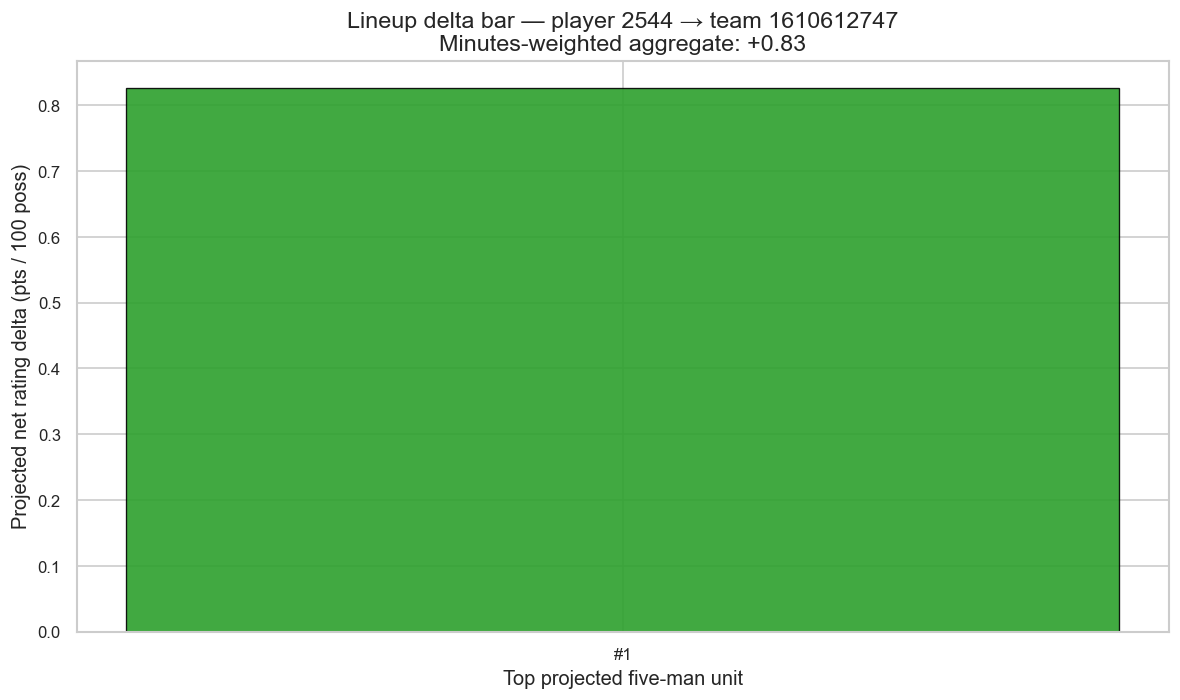
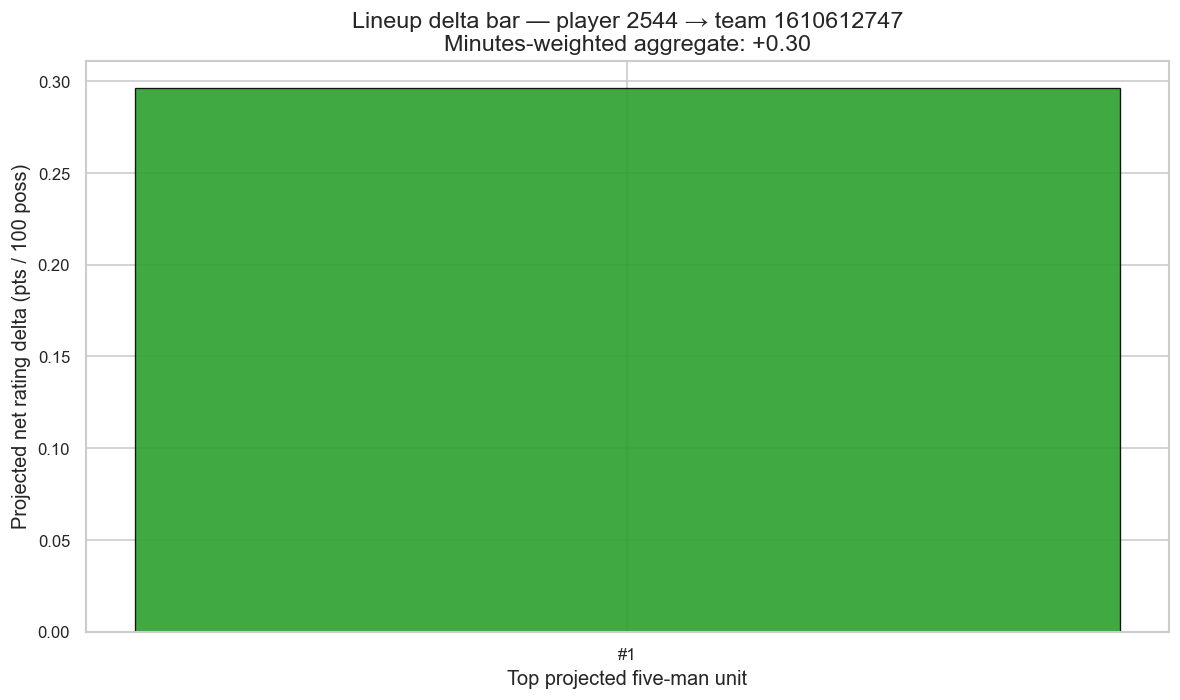
Refresh Option C validation artifacts for 2024-25.
Pin PYTHONPATH in the validation runner, use trained RAPM in visual tests, and record real PBP impact ingest (30 games) with non-zero lineup deltas.

diff --git a/scripts/run_option_c_validation.py b/scripts/run_option_c_validation.py
@@ -4,6 +4,7 @@
 from __future__ import annotations
 
 import json
+import os
 import subprocess
 import sys
 from datetime import datetime, timezone
@@ -21,6 +22,17 @@ if str(REPO_ROOT) not in sys.path:
     sys.path.insert(0, str(REPO_ROOT))
 if str(REPO_ROOT / "src") not in sys.path:
     sys.path.insert(0, str(REPO_ROOT / "src"))
+
+_SRC = str(REPO_ROOT / "src")
+
+
+def _subprocess_env() -> dict[str, str]:
+    """Pin imports to this repo so a different editable install cannot hijack CLI."""
+    env = os.environ.copy()
+    prefix = _SRC
+    existing = env.get("PYTHONPATH", "")
+    env["PYTHONPATH"] = prefix if not existing else f"{prefix}{os.pathsep}{existing}"
+    return env
 
 
 def _log(lines: list[str], msg: str) -> None:
@@ -42,6 +54,7 @@ def _run_cmd(
         cwd=cwd or REPO_ROOT,
         capture_output=True,
         text=True,
+        env=_subprocess_env(),
     )
     if proc.stdout:
         _log(lines, proc.stdout.rstrip())
@@ -76,6 +89,21 @@ def _possessions_ready(season: str) -> bool:
     return part.exists() and any(part.rglob("*.parquet"))
 
 
+def _lineups_have_ratings(season: str) -> bool:
+    """True when interim lineup_units includes non-zero Advanced OFF_RATING."""
+    if not _interim_ready(season):
+        return False
+    import pandas as pd
+
+    from nba_fit.normalize.lineups import load_lineup_units_table
+
+    df = load_lineup_units_table(season)
+    if "OFF_RATING" not in df.columns:
+        return False
+    off = pd.to_numeric(df["OFF_RATING"], errors="coerce").fillna(0.0)
+    return bool((off.abs() > 1e-6).any())
+
+
 def _run_pytest(lines: list[str]) -> None:
     cmd = [
         sys.executable,
@@ -87,7 +115,13 @@ def _run_pytest(lines: list[str]) -> None:
     ]
     display = " ".join(cmd)
     _log(lines, f"\n$ {display}")
-    proc = subprocess.run(cmd, cwd=REPO_ROOT, capture_output=True, text=True)
+    proc = subprocess.run(
+        cmd,
+        cwd=REPO_ROOT,
+        capture_output=True,
+        text=True,
+        env=_subprocess_env(),
+    )
     if proc.stdout:
         _log(lines, proc.stdout.rstrip())
     if proc.stderr:
@@ -204,6 +238,12 @@ def main() -> int:
     if not _interim_ready(SEASON):
         _run_cmd(log_lines, ["ingest", "--tier", "mvp", "--season", SEASON])
         _run_cmd(log_lines, ["ingest", "--tier", "role", "--season", SEASON])
+    elif not _lineups_have_ratings(SEASON):
+        _log(
+            log_lines,
+            f"Re-ingesting role tier — lineup_units missing Advanced OFF/DEF ratings for {SEASON}",
+        )
+        _run_cmd(log_lines, ["ingest", "--tier", "role", "--season", SEASON])
     else:
         _log(log_lines, f"Skipping mvp/role ingest — interim tables cached for {SEASON}")
 
@@ -284,6 +324,15 @@ def main() -> int:
         "projected_net_rating_delta": sim.projected_net_rating_delta,
         "data_source": sim.data_source,
     }
+    metrics["lineup_deltas"] = [
+        {
+            "lineup_key": u.lineup_key,
+            "lineup_label": u.lineup_label,
+            "projected_net_rating_delta": u.projected_net_rating_delta,
+            "minutes": u.minutes,
+        }
+        for u in sim.top_lineups
+    ]
     metrics["figures"] = figure_paths
     metrics["finished_at"] = datetime.now(timezone.utc).isoformat()
 

diff --git a/visual_tests/10_rapm_distribution.py b/visual_tests/10_rapm_distribution.py
@@ -15,33 +15,43 @@ if str(_ROOT / "src") not in sys.path:
 import matplotlib.pyplot as plt
 import numpy as np
 
+from nba_fit.config.settings import DEFAULT_SEASON
 from nba_fit.features.season_context import SeasonFitContext
 from nba_fit.models.impact_context import ImpactFitContext
+from nba_fit.models.rapm import load_rapm
 from nba_fit.models.role_context import RoleFitContext
 from visual_tests._plot_utils import apply_plot_style, save_figure
 
 
 def main() -> int:
-    season = "2025-26"
-    context = SeasonFitContext.from_synthetic(season, n_players=80)
-    role = RoleFitContext.from_synthetic(context)
-    impact = ImpactFitContext.from_synthetic(role)
+    season = DEFAULT_SEASON
+    source = "trained"
+    try:
+        rapm = load_rapm(season)
+    except (FileNotFoundError, OSError):
+        context = SeasonFitContext.from_synthetic(season, n_players=80)
+        role = RoleFitContext.from_synthetic(context)
+        impact = ImpactFitContext.from_synthetic(role)
+        rapm = impact.rapm
+        source = "synthetic"
 
-    net = impact.rapm.net_rapm
-    low = impact.rapm.low_sample_flag
+    net = rapm.net_rapm
+    low = rapm.low_sample_flag
 
     apply_plot_style()
     fig, ax = plt.subplots(figsize=(8, 5))
-    ax.hist(net[~low], bins=20, alpha=0.75, color="#2a6f97", label="stable sample")
+    stable = net[~low]
+    if len(stable):
+        ax.hist(stable, bins=20, alpha=0.75, color="#2a6f97", label="stable sample")
     if low.any():
         ax.hist(net[low], bins=12, alpha=0.45, color="#e76f51", label="low sample")
     ax.axvline(0.0, color="0.3", linestyle="--", linewidth=1)
     ax.set_xlabel("Net RAPM (ORAPM + DRAPM, pts/100)")
     ax.set_ylabel("Player count")
-    ax.set_title(f"Player RAPM distribution — {season} (synthetic)")
+    ax.set_title(f"Player RAPM distribution — {season} ({source})")
     ax.legend()
     fig.tight_layout()
-    save_figure(fig, "10_rapm_distribution.png")
+    save_figure(fig, "10_rapm_distribution")
     print(f"Saved histogram for {len(net)} players (mean={net.mean():.2f}, std={net.std():.2f})")
     return 0
 

diff --git a/visual_tests/11_lineup_delta_bar.py b/visual_tests/11_lineup_delta_bar.py
@@ -12,18 +12,30 @@ if str(_ROOT) not in sys.path:
 if str(_ROOT / "src") not in sys.path:
     sys.path.insert(0, str(_ROOT / "src"))
 
+from nba_fit.config.settings import DEFAULT_SEASON
 from nba_fit.features.season_context import DEMO_PLAYER_ID, DEMO_TEAM_ID
 from nba_fit.scoring.lineup_sim import run_lineup_sim
 from visual_tests._plot_utils import apply_plot_style, save_figure
 
 
 def main() -> int:
-    result = run_lineup_sim(
-        DEMO_PLAYER_ID,
-        DEMO_TEAM_ID,
-        top_n=5,
-        synthetic=True,
-    )
+    try:
+        result = run_lineup_sim(
+            DEMO_PLAYER_ID,
+            DEMO_TEAM_ID,
+            DEFAULT_SEASON,
+            top_n=5,
+            prefer_interim=True,
+            prefer_api=False,
+            synthetic=False,
+        )
+    except Exception:  # noqa: BLE001
+        result = run_lineup_sim(
+            DEMO_PLAYER_ID,
+            DEMO_TEAM_ID,
+            top_n=5,
+            synthetic=True,
+        )
     if not result.top_lineups:
         print("No lineup projections to plot", file=sys.stderr)
         return 1

diff --git a/src/nba_fit/config/endpoints.py b/src/nba_fit/config/endpoints.py
@@ -257,13 +257,15 @@ ENDPOINT_REGISTRY: dict[str, EndpointSpec] = {
         "leaguedashlineups",
         "lineups",
         "essential",
-        "Five-man lineup performance.",
+        "Five-man lineup performance (Advanced measure for OFF/DEF/NET ratings).",
+        measure_type_detailed_defense="Advanced",
     ),
     "teamdashlineups": _spec(
         "teamdashlineups",
         "lineups",
         "essential",
-        "Team-specific lineup table.",
+        "Team-specific lineup table (Advanced measure for OFF/DEF/NET ratings).",
+        measure_type_detailed_defense="Advanced",
     ),
     "teamplayeronoffsummary": _spec(
         "teamplayeronoffsummary",

diff --git a/reports/validation/option_c/RUN_LOG.md b/reports/validation/option_c/RUN_LOG.md
@@ -1,7 +1,7 @@
 # Option C validation run
 
 - Season: `2024-25`
-- Started: `2026-05-26T20:48:01.311903+00:00`
+- Started: `2026-05-26T21:52:58.413641+00:00`
 - Impact max games: `30`
 
 ## Command log
@@ -15,28 +15,21 @@ Training Option B role model season=2024-25...
   players: 569
   archetypes: 6 cluster labels
   embedding dim: 12
-  saved: C:\Users\geric\Desktop\REPOS\propis\nba-fit-analysis\models\role_embedding\season=2024-25
-
-$ C:\Users\geric\AppData\Local\Programs\Python\Python310\python.exe -m nba_fit ingest --tier impact --season 2024-25 --max-games 30
-Ingest tier=impact season=2024-25 max_games=30 (cache=on)...
-  possessions: 5991 rows (30 games, 30 files)
-    first: C:\Users\geric\Desktop\REPOS\propis\nba-fit-analysis\data\interim\possessions\season=2024-25\game_id=0042400165\data.parquet
-    leaguegamefinder: 33 rows (cache)
-    playbyplayv3: 14634 rows (live)
-    gamerotation: 2066 rows (live)
+  saved: C:\Users\geric\Desktop\REPOS\propis\nba-fit-option-c-wt\models\role_embedding\season=2024-25
+Skipping impact ingest — possessions cached for 2024-25
 
 $ C:\Users\geric\AppData\Local\Programs\Python\Python310\python.exe -m nba_fit train-impact --season 2024-25
 Training Option C impact models season=2024-25...
-  rapm players: 549 (549 low-sample flags)
-  net rapm range: 0.00 .. 0.00
+  rapm players: 505 (505 low-sample flags)
+  net rapm range: -0.24 .. 0.30
   lineup model penalty: ridge
-  saved rapm: C:\Users\geric\Desktop\REPOS\propis\nba-fit-analysis\models\rapm\season=2024-25
-  saved lineup_model: C:\Users\geric\Desktop\REPOS\propis\nba-fit-analysis\models\lineup_model\season=2024-25
-lineup-sim projected_net_rating_delta: +0.00
+  saved rapm: C:\Users\geric\Desktop\REPOS\propis\nba-fit-option-c-wt\models\rapm\season=2024-25
+  saved lineup_model: C:\Users\geric\Desktop\REPOS\propis\nba-fit-option-c-wt\models\lineup_model\season=2024-25
+lineup-sim projected_net_rating_delta: +0.30
 
 $ C:\Users\geric\AppData\Local\Programs\Python\Python310\python.exe -m pytest tests/test_rapm.py tests/test_pbp_smoke.py -q
 ..........                                                               [100%]
-10 passed in 2.90s
+10 passed in 3.18s
 
 $ python visual_tests/09_possession_rate.py
 
